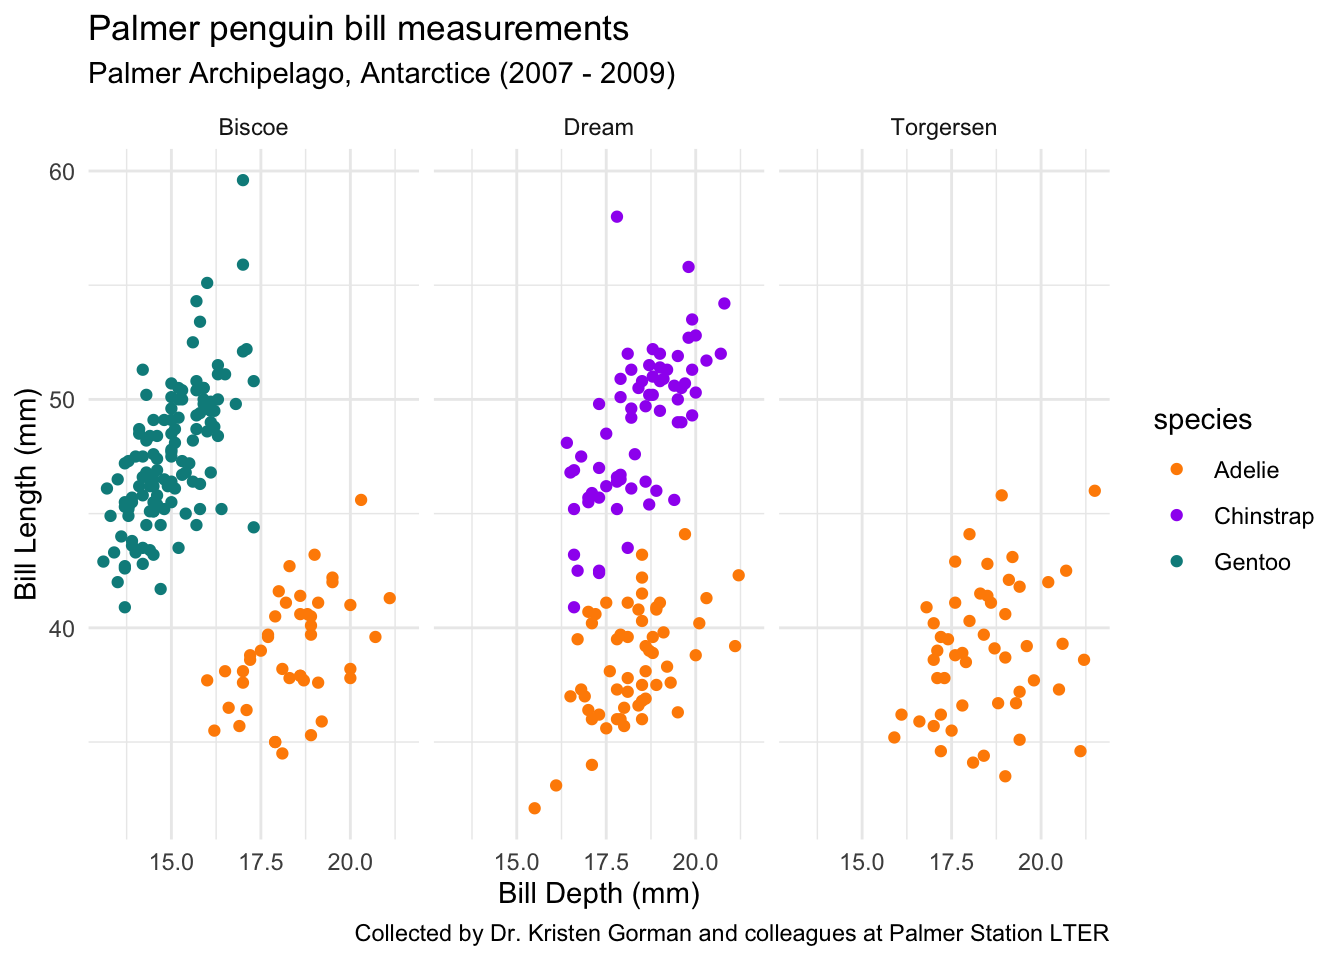
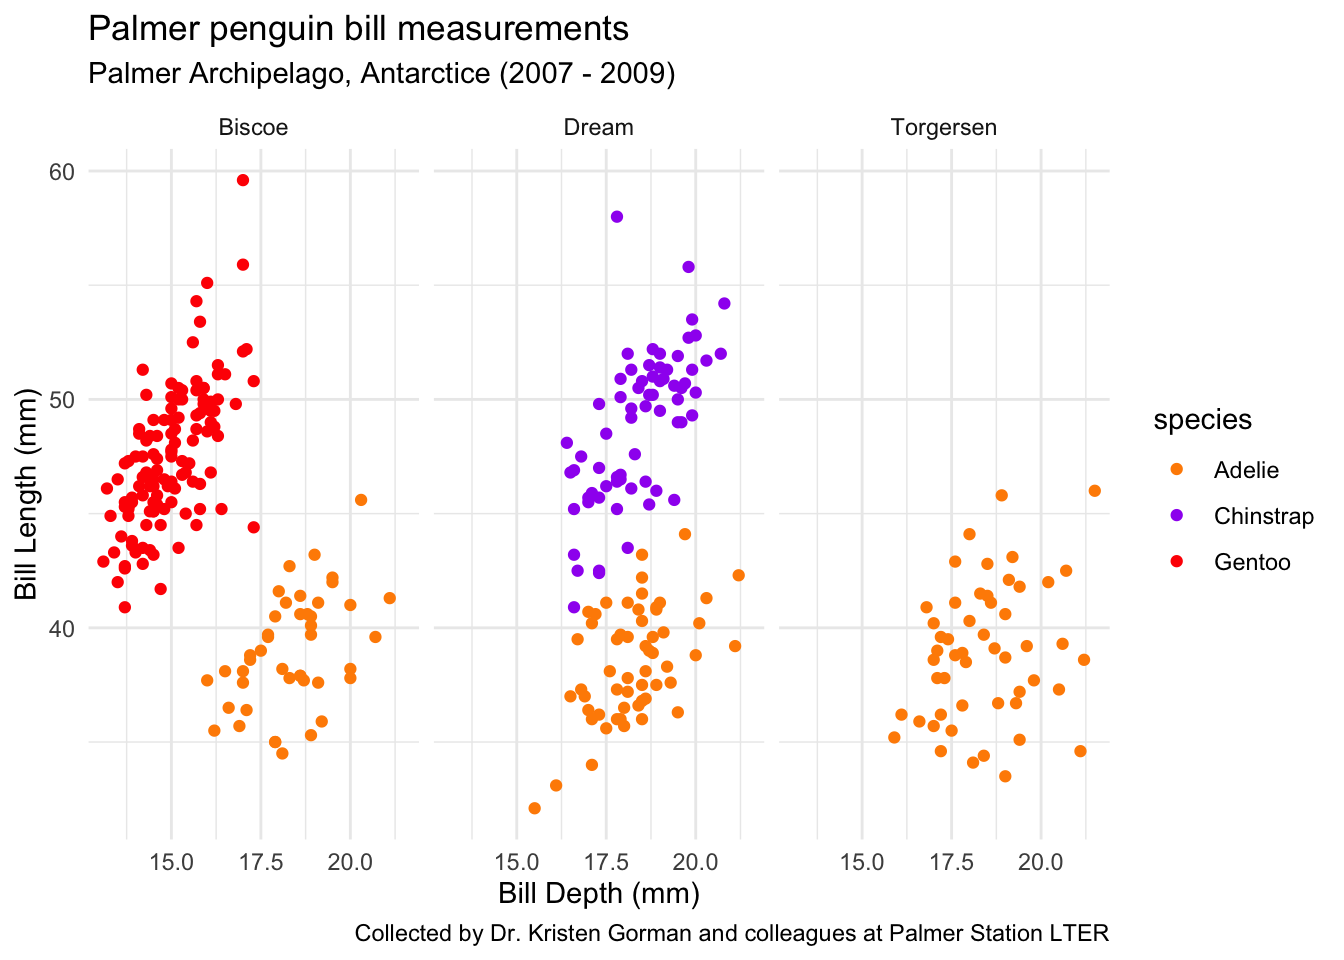
red penguinz

Changed region(s): [[0.0625, 0.2812, 0.1875, 0.625]]

diff --git a/eds212_day2_activities.html b/eds212_day2_activities.html
@@ -159,7 +159,7 @@ pre > code.sourceCode > span > a:first-child::before { text-decoration: underlin
 <div class="cell">
 <div class="sourceCode cell-code" id="cb12"><pre class="sourceCode r code-with-copy"><code class="sourceCode r"><span id="cb12-1"><a href="#cb12-1" aria-hidden="true" tabindex="-1"></a><span class="fu">ggplot</span>(<span class="at">data =</span> penguins, <span class="fu">aes</span>(<span class="at">x =</span> bill_depth_mm, <span class="at">y =</span> bill_length_mm)) <span class="sc">+</span></span>
 <span id="cb12-2"><a href="#cb12-2" aria-hidden="true" tabindex="-1"></a>  <span class="fu">geom_point</span>(<span class="fu">aes</span>(<span class="at">color =</span> species)) <span class="sc">+</span></span>
-<span id="cb12-3"><a href="#cb12-3" aria-hidden="true" tabindex="-1"></a>  <span class="fu">scale_color_manual</span>(<span class="at">values =</span> <span class="fu">c</span>(<span class="st">"darkorange"</span>,<span class="st">"purple"</span>,<span class="st">"cyan4"</span>)) <span class="sc">+</span></span>
+<span id="cb12-3"><a href="#cb12-3" aria-hidden="true" tabindex="-1"></a>  <span class="fu">scale_color_manual</span>(<span class="at">values =</span> <span class="fu">c</span>(<span class="st">"darkorange"</span>,<span class="st">"purple"</span>,<span class="st">"red"</span>)) <span class="sc">+</span></span>
 <span id="cb12-4"><a href="#cb12-4" aria-hidden="true" tabindex="-1"></a>  <span class="fu">labs</span>(<span class="at">y =</span> <span class="st">"Bill Length (mm)"</span>,</span>
 <span id="cb12-5"><a href="#cb12-5" aria-hidden="true" tabindex="-1"></a>       <span class="at">x =</span> <span class="st">"Bill Depth (mm)"</span>,</span>
 <span id="cb12-6"><a href="#cb12-6" aria-hidden="true" tabindex="-1"></a>       <span class="at">title =</span> <span class="st">"Palmer penguin bill measurements"</span>,</span>
@@ -182,7 +182,7 @@ pre > code.sourceCode > span > a:first-child::before { text-decoration: underlin
 <div class="cell">
 <div class="sourceCode cell-code" id="cb14"><pre class="sourceCode r code-with-copy"><code class="sourceCode r"><span id="cb14-1"><a href="#cb14-1" aria-hidden="true" tabindex="-1"></a><span class="fu">ggplot</span>(<span class="at">data =</span> penguins, <span class="fu">aes</span>(<span class="at">x =</span> species, <span class="at">y =</span> flipper_length_mm)) <span class="sc">+</span></span>
 <span id="cb14-2"><a href="#cb14-2" aria-hidden="true" tabindex="-1"></a>  <span class="fu">geom_jitter</span>(<span class="fu">aes</span>(<span class="at">color =</span> species)) <span class="sc">+</span></span>
-<span id="cb14-3"><a href="#cb14-3" aria-hidden="true" tabindex="-1"></a>  <span class="fu">scale_color_manual</span>(<span class="at">values =</span> <span class="fu">c</span>(<span class="st">"darkorange"</span>,<span class="st">"purple"</span>,<span class="st">"cyan4"</span>)) <span class="sc">+</span></span>
+<span id="cb14-3"><a href="#cb14-3" aria-hidden="true" tabindex="-1"></a>  <span class="fu">scale_color_manual</span>(<span class="at">values =</span> <span class="fu">c</span>(<span class="st">"darkorange"</span>,<span class="st">"purple"</span>,<span class="st">"red"</span>)) <span class="sc">+</span></span>
 <span id="cb14-4"><a href="#cb14-4" aria-hidden="true" tabindex="-1"></a>  <span class="fu">labs</span>(<span class="at">x =</span> <span class="st">"Species"</span>,</span>
 <span id="cb14-5"><a href="#cb14-5" aria-hidden="true" tabindex="-1"></a>       <span class="at">y =</span> <span class="st">"Flipper Length (mm)"</span>,</span>
 <span id="cb14-6"><a href="#cb14-6" aria-hidden="true" tabindex="-1"></a>       <span class="at">title =</span> <span class="st">"Palmer penguin Flipper Length by Species"</span>,</span>
